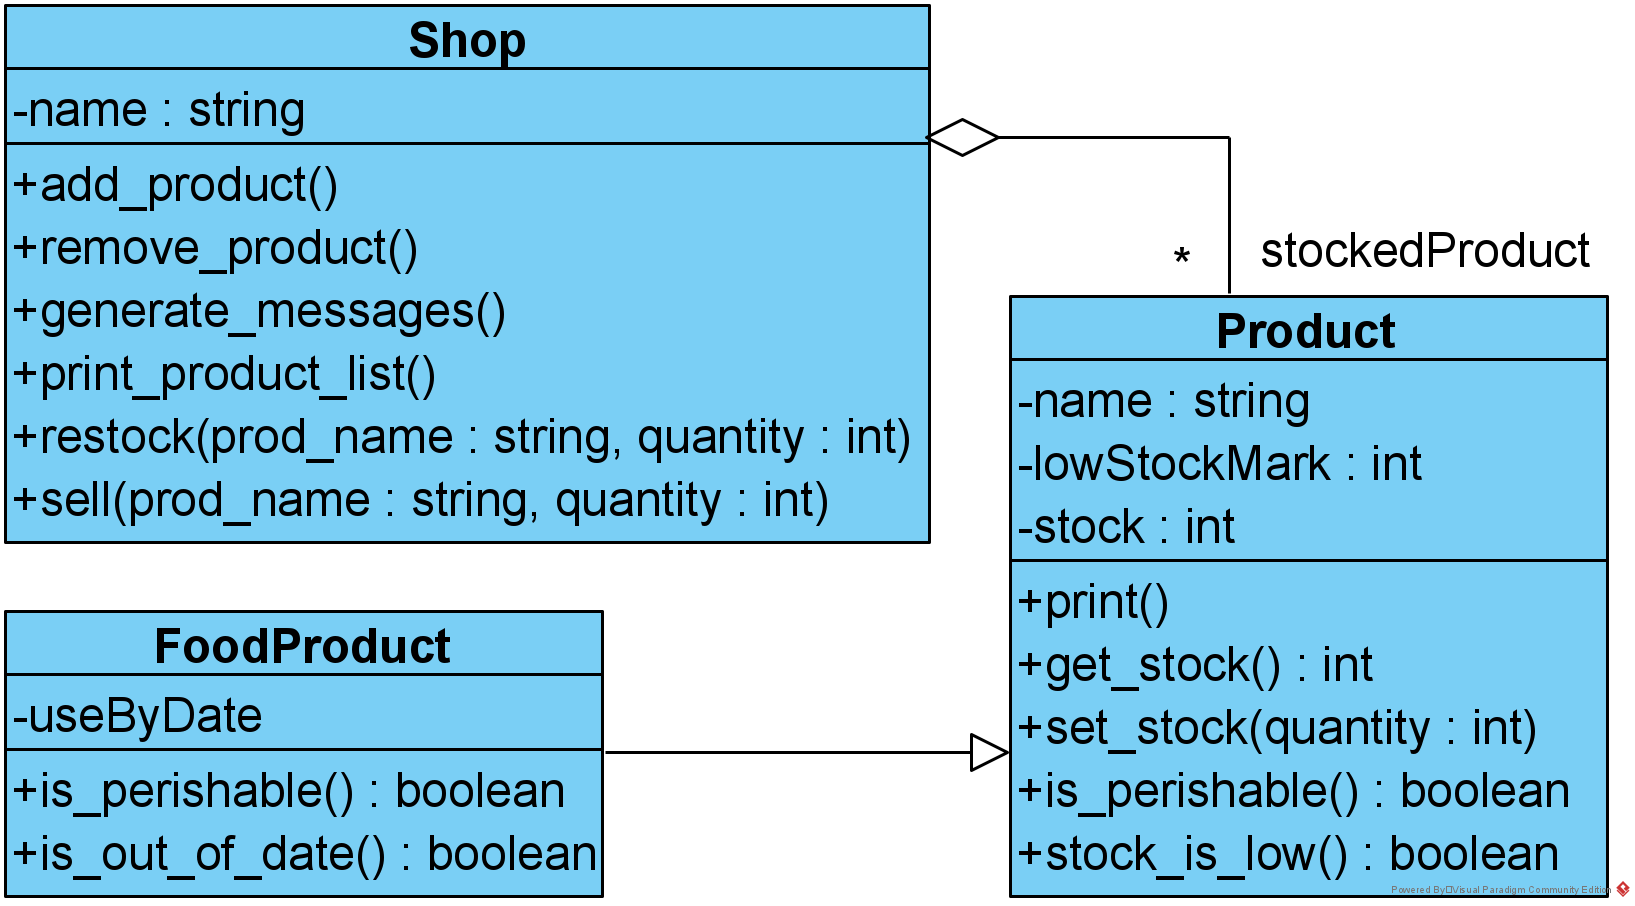
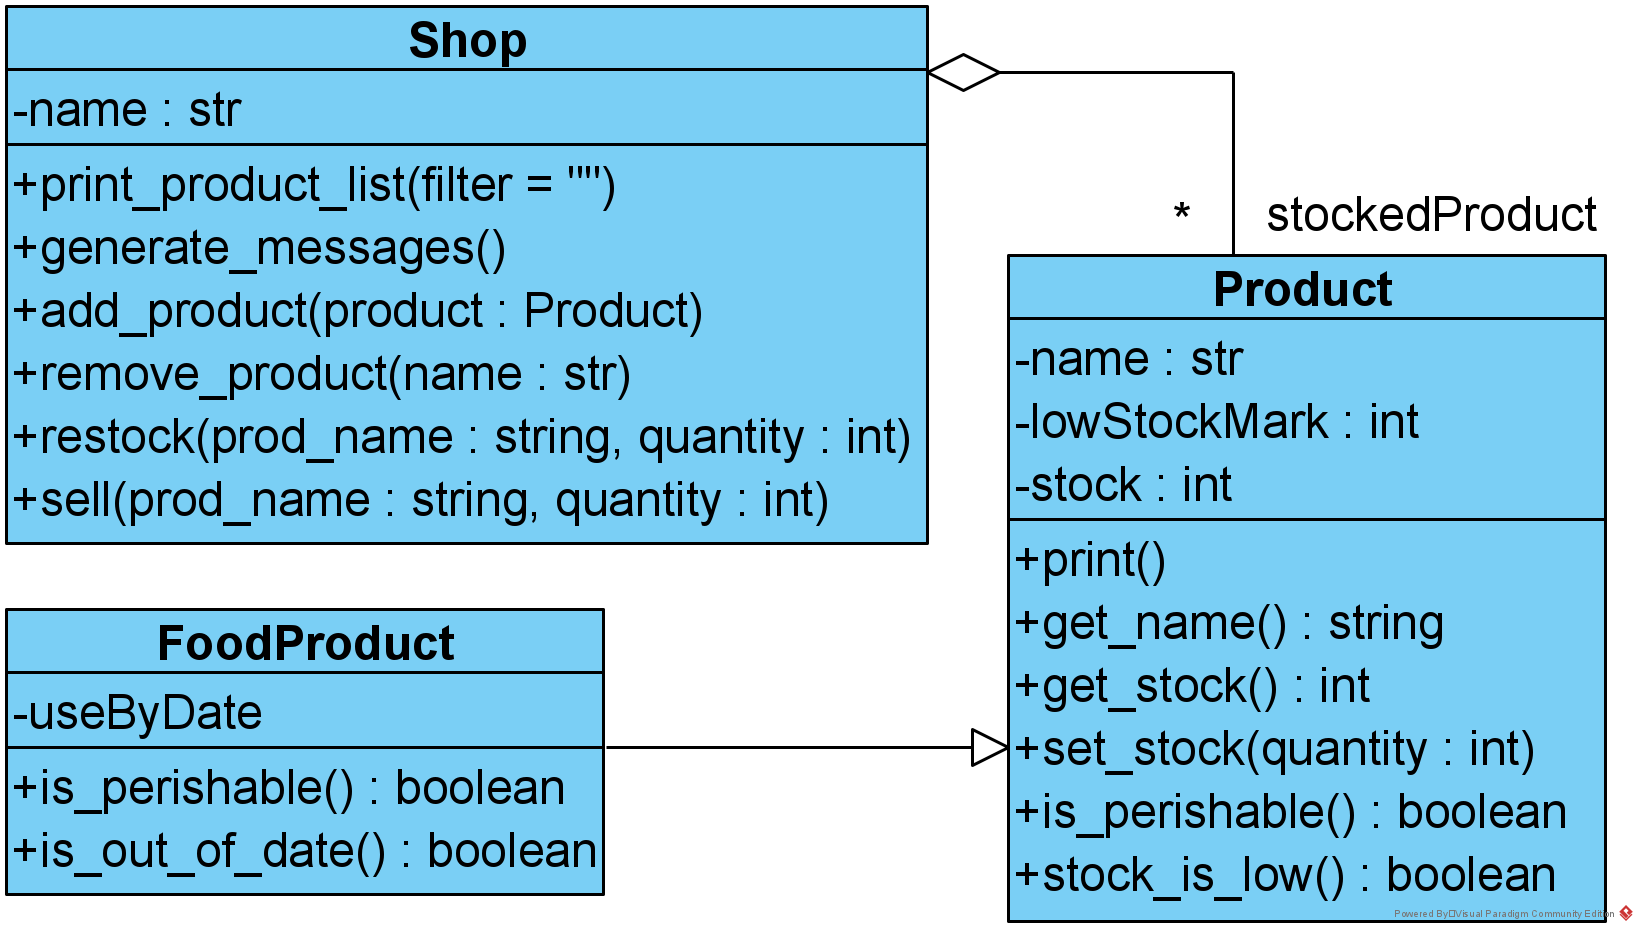
w6 assignment

Changed region(s): [[0.0, 0.0, 0.9982, 1.0], [0.2495, 0.0, 0.3119, 0.0618], [0.8422, 0.4945, 0.8734, 0.5254]]

diff --git a/ooswd/lab_6_assignment.html b/ooswd/lab_6_assignment.html
@@ -57,6 +57,7 @@
 		      <li>methods:
 			<ul>
 			  <li><span class="fw">print</span>: prints the contents of the class in a user-friendly way</li>
+			  <li class="red"><span class="fw">get_name</span>: returns a string representing the name of the product</li>
 			  <li><span class="fw">get_stock</span>: returns an integer representing the quantity in stock for this product</li>
 			  <li><span class="fw">set_stock</span>: takes an integer argument and records the quantity in stock for this product</li>
 			  <li><span class="fw">is_perishable</span>: returns a boolean indicator of whether the product is perishable; the class <span class="fw">Product</span> implementation returns <span class="fw">False</span></li>
@@ -90,9 +91,6 @@
 		      </li>
 		      <li>methods:
 			<ul>
-			  <li><span class="fw">add_product</span>: takes an argument of type <span class="fw">Product</span> (or any subclass) and adds it to the list of stocked products</li>
-			  <li><span class="fw">remove_product</span>: takes a string argument representing the product name and removes the product from the stockedProducts list</li>
-			  <li><span class="fw">generate_messages</span>: prints messages, one for each product that is low in stock and one for each product that is out of date</li>
 			  <li><span class="fw">print_product_list</span>: takes a string argument representing a filtering instruction, with possible values:
 			    <ul>
 			      <li>"" (default) - all products</li>
@@ -102,12 +100,16 @@
 
 			    and prints a list of products after applying the filter
 			  </li>
+			  <li><span class="fw">generate_messages</span>: prints messages, one for each product that is low in stock and one for each product that is out of date</li>
+			  <li><span class="fw">add_product</span>: takes an argument of type <span class="fw">Product</span> (or any subclass) and adds it to the list of stocked products</li>
+			  <li><span class="fw">remove_product</span>: takes a string argument representing the product name and removes the product from the stockedProducts list</li>
 			  <li><span class="fw">restock</span>: takes a string argument representing a product name and an integer argument representing a quantity to be added to the stock for the product; updates the stock for the product accordingly</li>
 			  <li><span class="fw">sell</span>: takes a string argument representing a product name and an integer argument representing a quantity of the product sold; updates the stock for the product accordingly</li>
 			</ul>
 		      </li>
 		    </ul>
 		  </li>
+		  <li class="red">All private member variables should have the two-underscore (<span class="fw">__</span>) prefix added to their names, as is the Python convention.</li>
 		  <li><span class="fw">Product</span> and <span class="fw">FoodProduct</span> should be in the same file, <em>product.py</em>. <span class="fw">Shop</span> should be defined in a file of its own, <em>shop.py</em>.</li>
 		  <li>A file called <em>main.py</em> should contain
 		    <ul>

diff --git a/ooswd/index.html b/ooswd/index.html
@@ -114,6 +114,7 @@
 			<a href="res/files/lab_solutions/a4.2p2v1.py">PBL: Online Shop p2v1</a>
 			<a href="res/files/lab_solutions/a4.2p2v2.py">PBL: Online Shop p2v2</a>
 			<a href="https://go.screenpal.com/watch/cZ6jriVWbR2">PBL: Online Shop video</a>
+			<a href="res/files/lab_solutions/a4.3.py">PBL: Stock Management</a>
 		    </td>
 		</tr>
 
@@ -126,7 +127,9 @@
 		    <td class="lab">
 			<a href="lab_5_assignment.html">Classes [ENTIRE ASSIGNMENT]</a>
 		    </td>
-		    <td class="sol"></td>
+		    <td class="sol">
+		      	<a href="res/files/lab_solutions/a5.zip">Classes</a>
+		    </td>
 		</tr>
 
 		<tr>

diff --git a/ooswd/res/files/lab_solutions/a4.3.py b/ooswd/res/files/lab_solutions/a4.3.py
@@ -1,0 +1,80 @@
+from random import *
+
+currentUniqueCode = 2
+items = [[1, "bread", 1.5, 10], [2, "milk", 2.0, 8]]
+
+option = 0
+
+while option != 5:
+
+    print("\n\n\n\n\n\n\n\n\n\n\n\n\n\n\n\n\n\n\n\n\n\n\n")
+
+    print("-----------------------------------------")
+    print("        Groceries at Your Fingertips     ")
+    print("-----------------------------------------")
+    print("")
+    print("Items in stock")
+    print("---------------")
+
+    print("{0:>3}{1:>12}{2:>13}{3:>7}".format("ID", "Name", "Price(€)", "Stock"))
+
+    for item in items:
+        print("{0:>3}{1:>12}{2:>10,.2f}{3:>9}".format(item[0], item[1], float(item[2]), item[3]))
+
+    print("")
+    print("Stock management options")
+    print("-------------------------")
+    print("(1) add item")
+    print("(2) remove item")
+    print("(3) update item")
+    print("(4) update stock")
+    print("(5) exit")
+    option = int(input("Please choose an option (1, 2, 3, 4 or 5): "))
+
+    if option == 1:
+        print("")
+        print("Adding a new grocery item")
+        print("--------------------------")
+        name = input("Please enter the name of the item: ")
+        price = float(input("Please enter the price of the item (in Euro): "))
+        stock = int(input("Please enter the number of items in stock: "))
+        currentUniqueCode += 1
+        items += [[currentUniqueCode, name, price, stock]]
+
+    elif option == 2:
+        print("")
+        print("Removing a grocery item")
+        print("------------------------")
+        uniqueId = int(input("Please enter the id of the item you wish to remove: "))
+        itemToRemove = [item for item in items if item[0] == uniqueId][0]
+        items.remove(itemToRemove)
+
+    elif option == 3:
+        print("")
+
+        print("Updating a grocery item")
+        print("------------------------")
+        uniqueId = int(input("Please enter the id of the item you wish to update: "))
+        itemToUpdate = [item for item in items if item[0] == uniqueId][0]
+        itemToUpdate[2] = float(input("Please enter the price of the item (in Euro): "))
+        itemToUpdate[3] = int(input("Please enter the number of items in stock: "))
+
+    elif option == 4:
+        print("")
+        print("Updating stock counts")
+        print("----------------------")
+        for item in items:
+            item[3] -= randint(0, item[3])
+
+        print("Items low in stock:")
+        for item in [item for item in items if item[3] < 3]:
+            print(item[1])
+
+        input("Press any key to continue...")
+
+
+
+
+
+
+

diff --git a/ooswd/res/files/lab_solutions/a5/shop.py b/ooswd/res/files/lab_solutions/a5/shop.py
@@ -1,0 +1,33 @@
+from product import Product
+
+class Shop:
+    template = "{0: <4}{1: <12}{2: <23}{3: <}"
+
+    def __init__(self, data):
+        self.products = list(map(lambda p: Product(*p), data))
+
+    def add_product(self, name, desc, stock):
+        self.products.append(Product(name, desc, stock))
+
+    def remove_product(self, name):
+        index = list(map(lambda p: p.name, self.products)).index(name)
+        self.products.pop(index)
+
+    def print_heading(self, listname):
+        print("")
+        print("=============== {} ===============".format(listname))
+        print(self.template.format("ID", "Name", "Description", "Stock"))
+        
+    def print_product_list(self):
+        self.print_heading("ALL PRODUCTS")
+        for index, p in enumerate(self.products):
+            print(self.template.format(index + 1, p.name, p.description, p.stock))
+            
+    def print_low_on_stock(self):
+        self.print_heading("LOW ON STOCK")
+        for index, p in enumerate(list(filter(lambda p: p.stock < 3, self.products))):
+            print(self.template.format(index + 1, p.name, p.description, p.stock))
+        
+
+            
+

diff --git a/ooswd/res/files/lab_solutions/a5/main.py b/ooswd/res/files/lab_solutions/a5/main.py
@@ -1,0 +1,32 @@
+from shop import Shop
+
+DATA = [
+    ["milk", "Fresh from the farm", 10],
+    ["bread", "Fresh from the baker", 4],
+    ["tea", "Box of 100 teabags", 1],
+    ["eggs", "A dozen per box", 33],
+    ["ice cream", "1l box, vanilla", 2]
+]
+
+s = Shop(DATA)
+
+s.print_product_list()
+s.print_low_on_stock()
+
+print("\nAdding product cake...", end="")
+s.add_product("cake", "Coffee and walnut", 1)
+print("added.")
+
+s.print_product_list()
+s.print_low_on_stock()
+
+print("\nRemoving product tea...", end="")
+s.remove_product("tea")
+print("removed.")
+
+s.print_product_list()
+s.print_low_on_stock()
+
+
+
+

diff --git a/ooswd/res/files/lab_solutions/a5/product.py b/ooswd/res/files/lab_solutions/a5/product.py
@@ -1,0 +1,6 @@
+class Product:
+
+    def __init__(self, n, d, s):
+        self.name = n
+        self.description = d
+        self.stock = s
